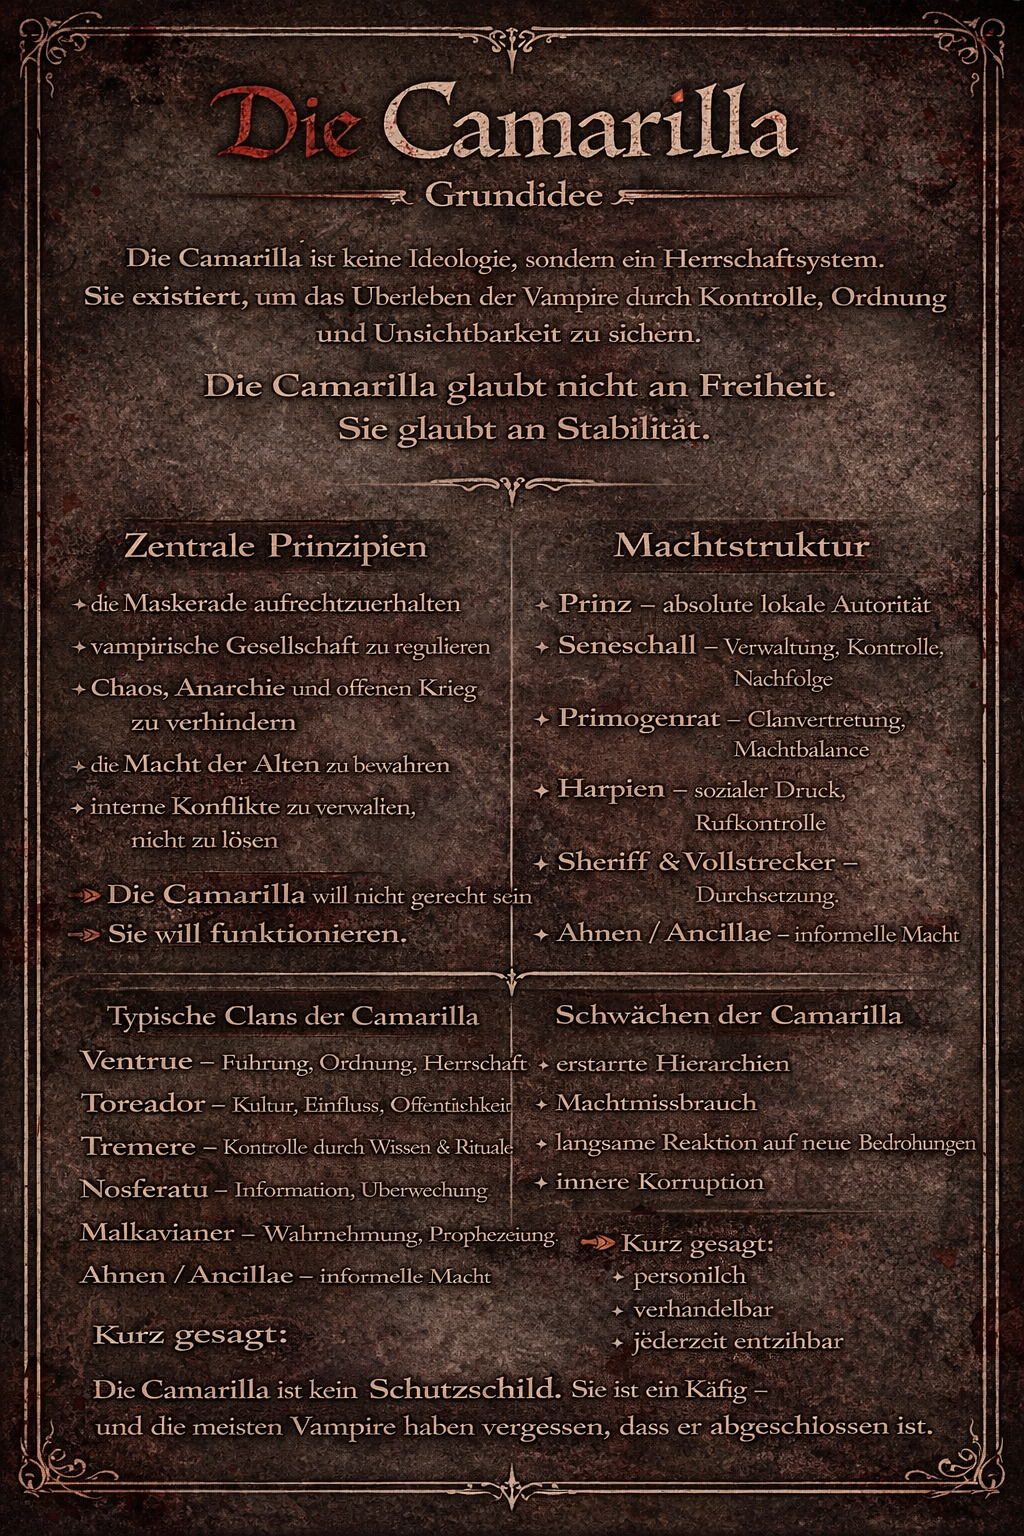
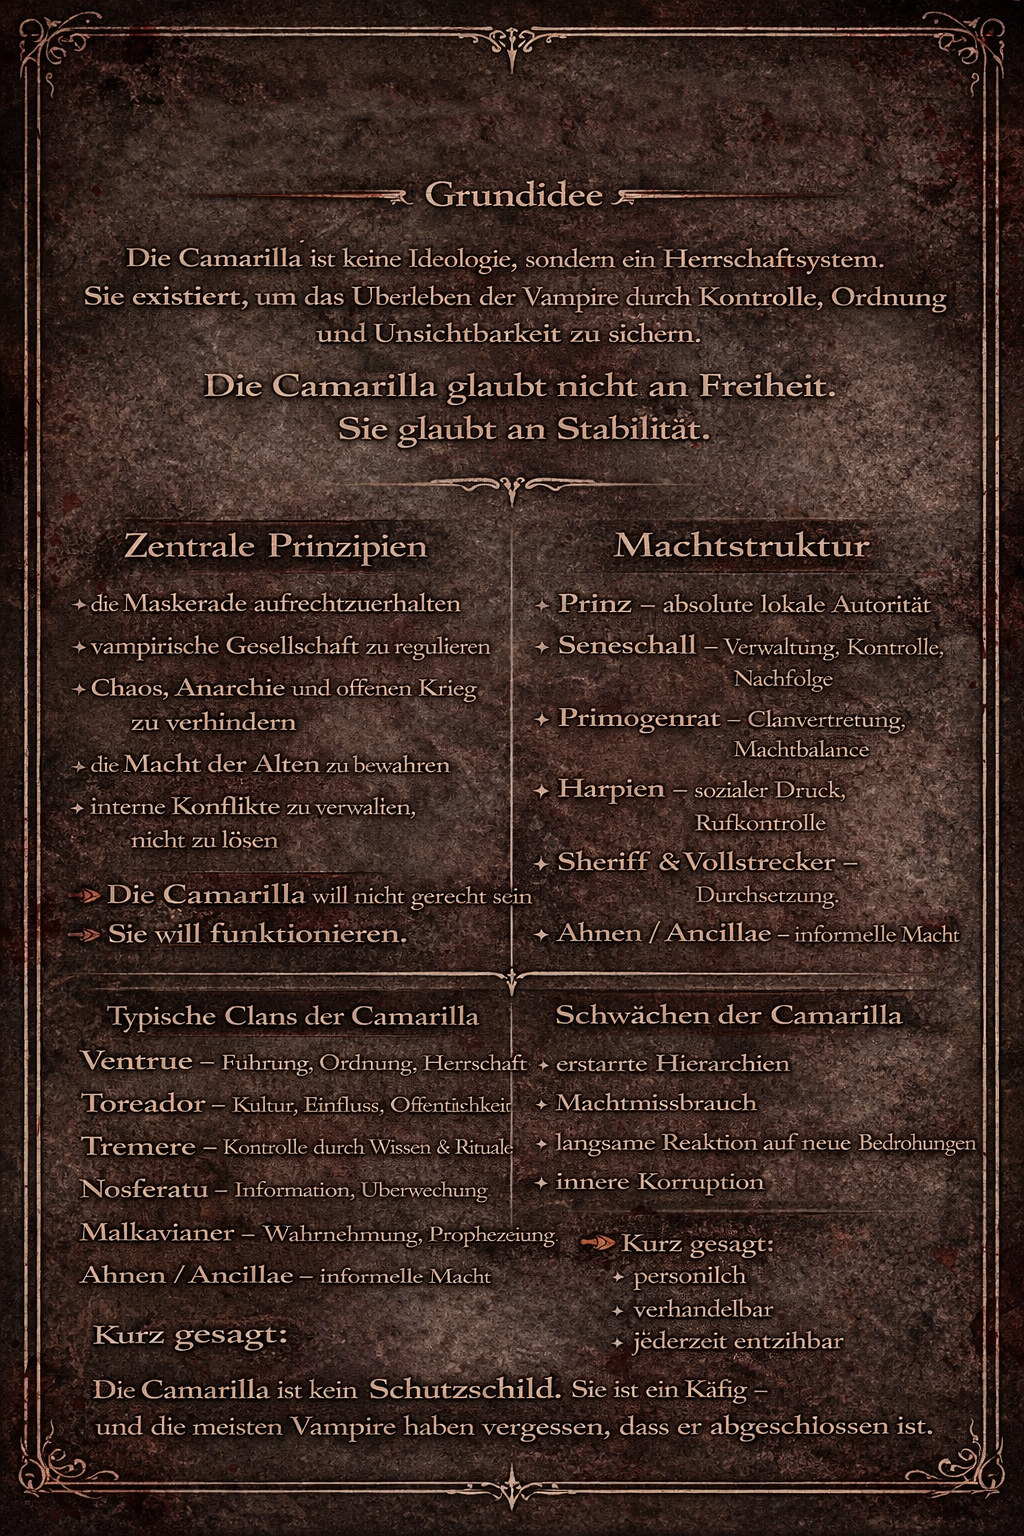
more pages, better structure

Changed region(s): [[0.1875, 0.0312, 0.8125, 0.125]]

diff --git a/SL_book_generator/journal_generator.py b/SL_book_generator/journal_generator.py
@@ -106,8 +106,8 @@ class DynamicPDFGenerator:
             }
             current_page += 1
             
-            # Add additional pages if tab has page_count > 1 (for tabs without subsections)
-            if tab_page_count > 1 and not subsections:
+            # Add additional pages if tab has page_count > 1 (for tabs with or without subsections)
+            if tab_page_count > 1:
                 for page_idx in range(2, tab_page_count + 1):
                     page_structure[current_page] = {
                         "tab_name": tab_name,
@@ -126,9 +126,10 @@ class DynamicPDFGenerator:
                 if not sub_subsections:
                     sub_subsections = subsection.get("sub_subsections", [])
                 
-                # Check if this is Ghule or Menschen subsection (should have pages, even without sub-subsections)
+                # Check if this is Ghule, Menschen, or Werwölfe subsection (should have pages, even without sub-subsections)
                 is_ghule_subsection = (tab_name == "NPCs" and subsection_name == "Ghule")
                 is_menschen_subsection = (tab_name == "NPCs" and subsection_name == "Menschen")
+                is_werwoelfe_subsection = (tab_name == "NPCs" and subsection_name == "Werwölfe")
                 
                 if is_ghule_subsection:
                     # Generate 9 pages for Ghule subsection:
@@ -153,6 +154,18 @@ class DynamicPDFGenerator:
                             "sub_subsection": None,
                             "page_index": page_idx,
                             "no_upper_tabs": (page_idx == 5)  # Last page has no upper tabs
+                        }
+                        current_page += 1
+                elif is_werwoelfe_subsection:
+                    # Generate 2 pages for Werwölfe subsection:
+                    # page_1: garou.png full-page image
+                    # page_2: garou_stämme.png background image
+                    for page_idx in range(1, 3):  # page_index 1-2
+                        page_structure[current_page] = {
+                            "tab_name": tab_name,
+                            "subsection": subsection_name,
+                            "sub_subsection": None,
+                            "page_index": page_idx
                         }
                         current_page += 1
                 else:
@@ -216,13 +229,17 @@ class DynamicPDFGenerator:
                             }
                             current_page += 1
                     else:
-                        # Regular sub-subsection (single page)
-                        page_structure[current_page] = {
-                            "tab_name": tab_name,
-                            "subsection": subsection_name,
-                            "sub_subsection": sub_subsection
-                        }
-                        current_page += 1
+                        # Regular sub-subsection - generate at least 4 pages
+                        # Check if there's a configuration in cover_pages.json to determine page count
+                        # For now, always generate at least 4 pages
+                        for page_idx in range(1, 5):  # page_index 1-4 (minimum 4 pages)
+                            page_structure[current_page] = {
+                                "tab_name": tab_name,
+                                "subsection": subsection_name,
+                                "sub_subsection": sub_subsection,
+                                "page_index": page_idx
+                            }
+                            current_page += 1
             
             # If no subsections, still need at least one page
             if not subsections:

diff --git a/SL_book_generator/layout_generator.py b/SL_book_generator/layout_generator.py
@@ -1879,11 +1879,23 @@ class LayoutGenerator:
                             
                             tab_name = page_info.get("tab_name", "")
                             is_rules_section = tab_name == "Regeln"
+                            is_npcs_section = tab_name == "NPCs"
                             
                             # Select appropriate background directory
                             if is_rules_section and rules_background_images:
                                 bg_image_path = random.choice(rules_background_images)
                                 pages_with_rules_bg += 1
+                            elif is_npcs_section:
+                                # For NPCs section, use npc_2.png as default background
+                                npc_2_path = os.path.join(script_dir, "assets", "images", "section_cover", "npc_2.png")
+                                if not os.path.exists(npc_2_path):
+                                    npc_2_path = os.path.join(os.getcwd(), "assets", "images", "section_cover", "npc_2.png")
+                                if os.path.exists(npc_2_path):
+                                    bg_image_path = npc_2_path
+                                elif background_images:
+                                    bg_image_path = random.choice(background_images)
+                                else:
+                                    continue  # Skip if no backgrounds available
                             elif background_images:
                                 bg_image_path = random.choice(background_images)
                             else:
